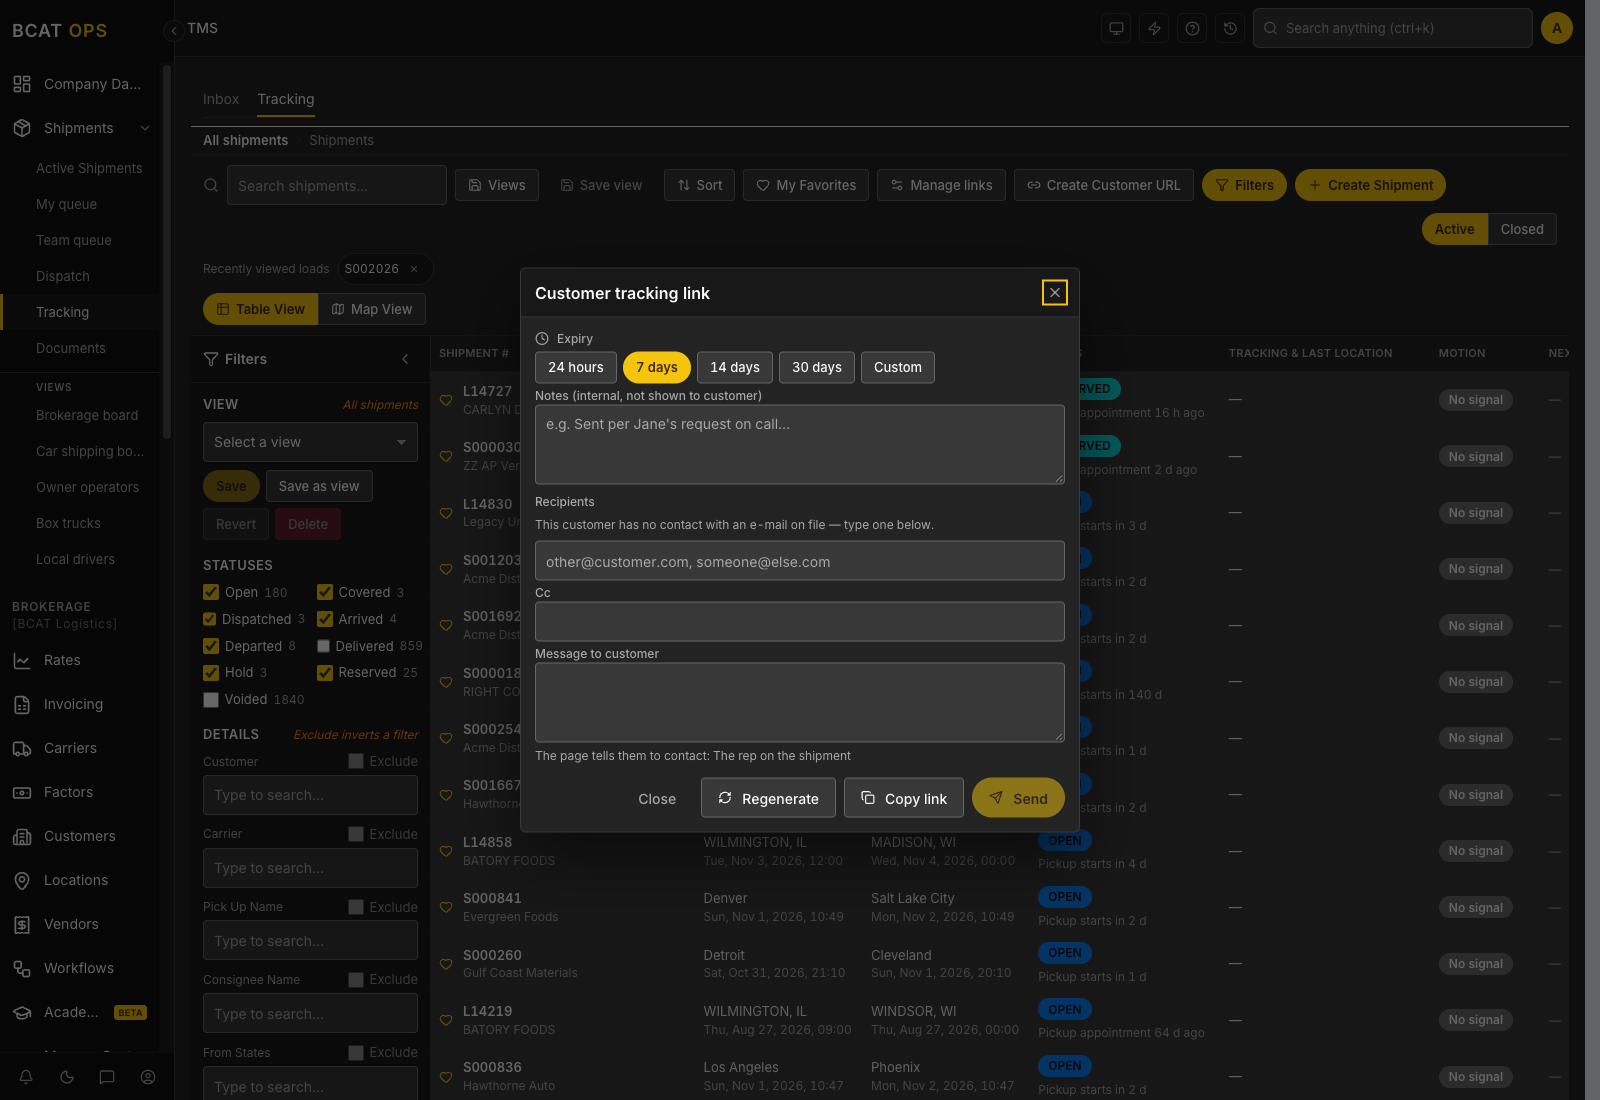
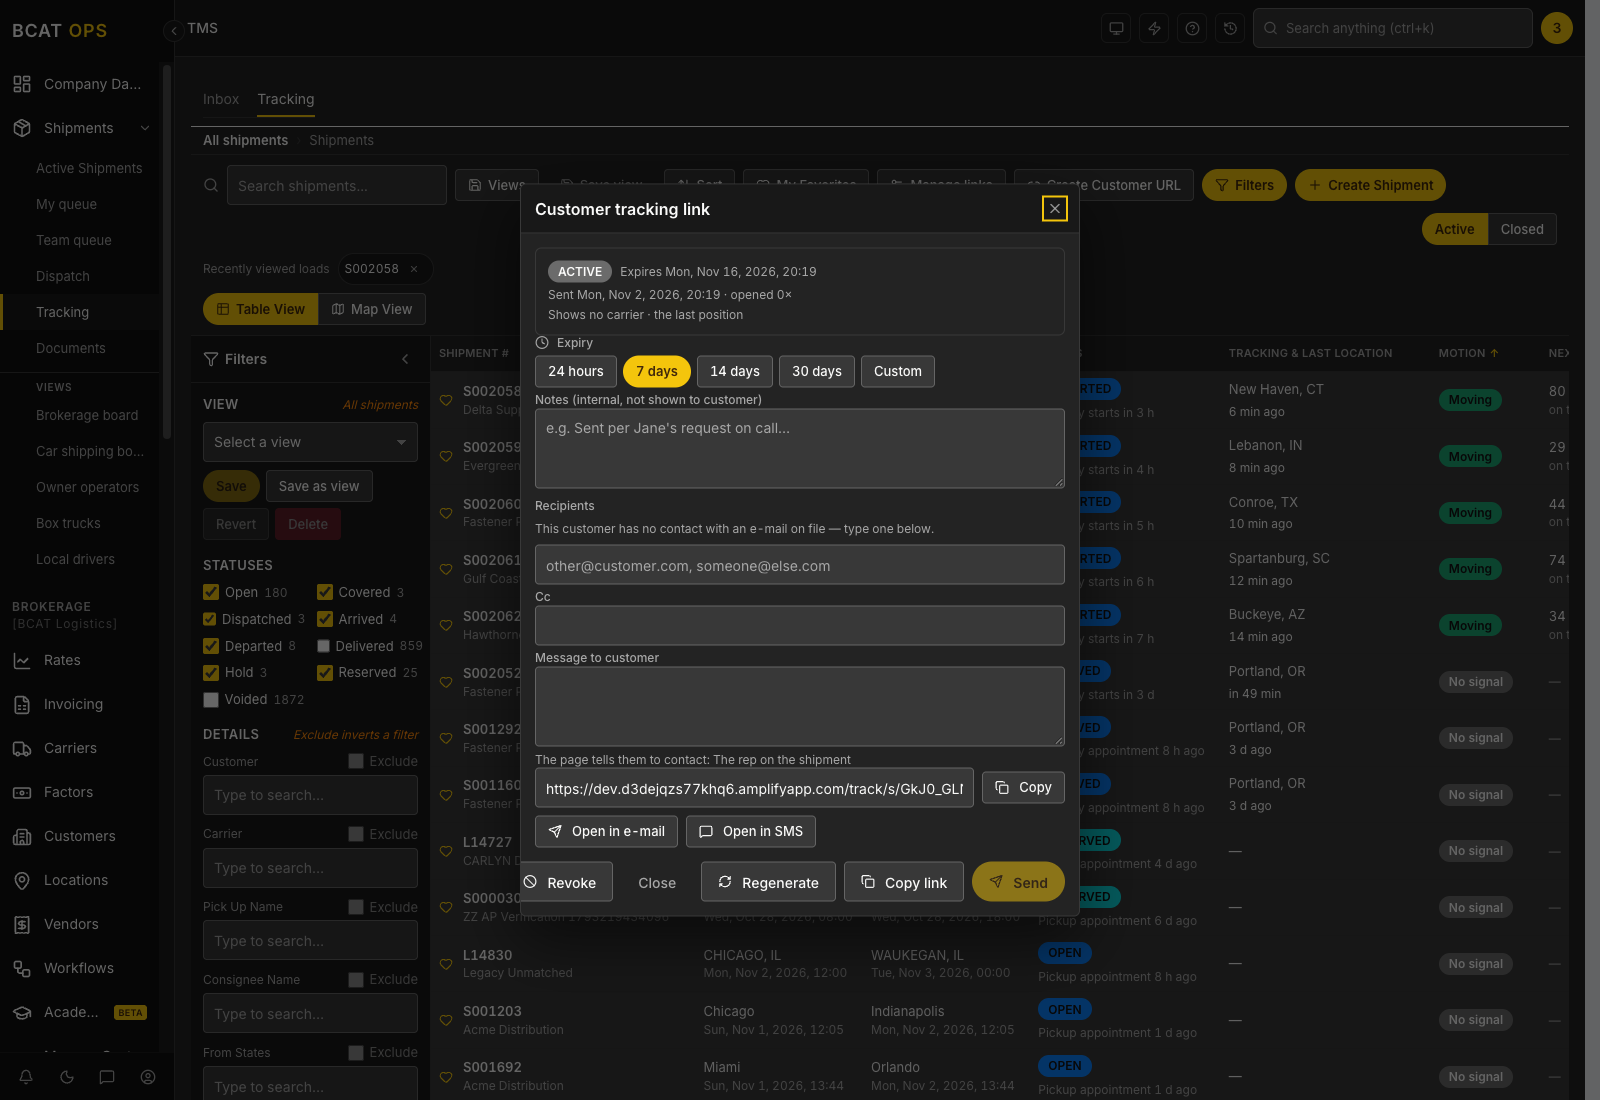
docs(tms): log Step DEMO-WALK deploy and refresh P8-UI screenshots

diff --git a/Docs/tms-build/BUILD_LOG.md b/Docs/tms-build/BUILD_LOG.md
@@ -1,5 +1,38 @@
 # TMS build log
 
+## 2026-11-02 — Step DEMO-WALK fixes deployed on dev
+
+**Committed and deployed on dev.** Click-by-click polish on the customer-facing demo flow.
+
+- Commits: `d6c4ee3` (DEMO-WALK tracking + inbox + customer-link polish), `9f41700` (remove stale `conversationIdRef`).
+- Amplify dev job `125` for `9f41700` **SUCCEEDED** at 2026-11-02 20:15:49 UTC-5.
+- `scripts/devVerifyP.mjs` run against the deployed dev stack: **48/48 PASS**
+  (P8-UI browser verification refreshed screenshots).
+- `npx vitest run amplify/functions/tms-shipment-actions/handler.test.ts amplify/functions/tms-tracking-actions/handler.test.ts`: **363/363 PASS**.
+- `npm run lint`: 0 errors, 3 pre-existing warnings.
+
+### What changed
+
+- Tracking board now defaults to **Motion** sort (Moving first) with a recent-ping tiebreaker,
+  so seeded in-transit shipments with pings surface at the top of the Active tab.
+- `useShipments` projects `lastKnownLat`/`lastKnownLng` onto the row; the Next Stop cell can
+  now render miles + ETA.
+- `TrackingLink` gained `shipmentNumber` and `customerName` snapshot fields; the backend
+  writes them when sending a customer link.
+- Manage Customer Links page displays the snapshot fields and hides verification-user test
+  artifacts (`zz-p-admin-*` / `tms-verify*`).
+- `RESET_DEMO_DATA` purges verification-created `TrackingLink` rows.
+- Inbox composer signs with the staff display name and sends `authorName` to the thread Lambda.
+- Seeded in-transit threads include a dispatcher email and a person-sent message so the
+  Agent vs Person badges are visible.
+- React Compiler lint cleanups in `InboxPanel`, `TrackingDetailPanel`, and `TrackingDetailMap`.
+
+### Next
+
+Continue the walk through tender → cover → rate con → tracking → POD → release, then begin
+Step S1 (redesign tokens + kit + shell + company dashboard) and **stop before S2** for
+Ryne's screenshot review.
+
 ## 2026-10-30 — devVerifyP stability fixes deployed on dev
 
 **Committed and deployed on dev.** Follow-up to the Step P verification harness.
